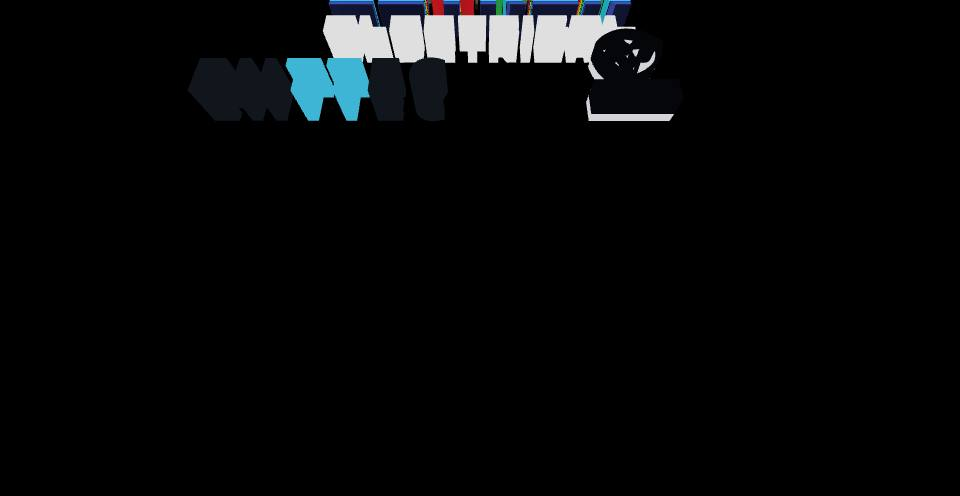
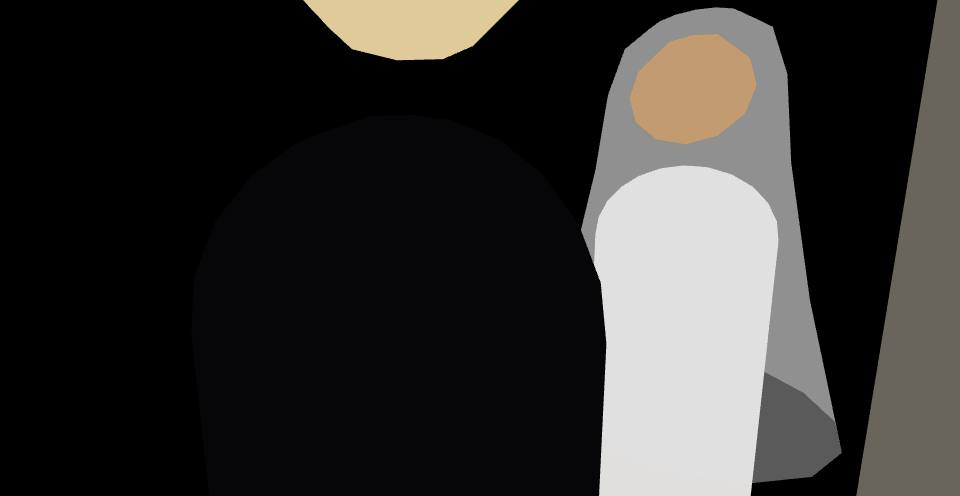
The finale (Lloyd's note, V5): the door swings outward and sits a step to the left, clear of the fin it clipped; nothing outside is ever seen: the court is hidden through the walk, the camera closes onto the groom's back until it fills the frame at 5 s and the picture goes black, and the marks come 

diff --git a/index.html b/index.html
@@ -1789,7 +1789,7 @@ function buildCourt(){
    g.scale(k,k,depthK); g.computeVertexNormals();   // fit in the plane only: the depth stays in metres
    const m=new THREE.Mesh(g,mat); m.frustumCulled=false; grp.add(m); solids.push(m);
   }
-  grp.userData.top=(box.max.y-box.min.y)*k;
+  grp.userData.top=(box.max.y-box.min.y)*k; grp.userData.w=(box.max.x-box.min.x)*k;
   // on the shared turntable, a third of a turn round from Lotron, facing outward
   grp.position.set(Math.sin(angle)*ringR,0,Math.cos(angle)*ringR); grp.rotation.y=angle;
   turntable.add(grp); return grp;
@@ -3450,7 +3450,8 @@ function buildDoor(){ if(doorLeaf){ scene.remove(doorLeaf); doorLeaf=null; }
  const nrm=new THREE.Vector3(-along.z,0,along.x); if(nrm.dot(COURT.n)<0){ nrm.negate(); along.negate(); }
  // where the axis crosses the pane's foot
  const z=bl.clone().sub(P0).dot(nrm)/Math.max(1e-6,COURT.n.dot(nrm)); const Q=P0.clone().addScaledVector(COURT.n,z).setY(bl.y);
- const t=Math.max(-(len/2-DOOR.W/2-0.05),Math.min(len/2-DOOR.W/2-0.05,Q.clone().sub(c).dot(along)));
+ // (Lloyd, V5) a step to the left, seen from inside looking out, clear of the fin it clipped
+ const tc=len/2-DOOR.W/2-0.05, t=Math.max(-tc,Math.min(tc,Q.clone().sub(c).dot(along)-0.4*Math.sign(along.dot(COURT.u))));
  const foot=c.clone().addScaledVector(along,t).setY(bl.y); DOOR.foot=foot.clone();   // the walk passes through here
  // the leaf: a dark frame round a pane of glass, a push bar at hand height; hinged on the far
  // edge, it swings out into the court (rotation.y)
@@ -3470,7 +3471,9 @@ function buildDoor(){ if(doorLeaf){ scene.remove(doorLeaf); doorLeaf=null; }
 // Lotron on top, ENTTEC bottom left, Shadow AV bottom right, BROUGHT TO LIGHT BY above them; the
 // triangle flattens from 3D to 2D, GANDEL HALL 2026 comes up beneath it in shimmering rainbow,
 // holds, and the picture fades to black. The tour ends there.
-const FIN={walk:8, pan:3, drop:6, flat:5, hold:4, fade:2};   // seconds per phase
+const FIN={walk:6.5, pan:1, drop:6, flat:5, hold:4, fade:2};   // seconds per phase
+// (Lloyd, V5) the walk ends on the groom's back filling the frame, then black; the marks come
+// down from the top of the frame onto the black, so nothing outside is ever seen
 // (Lloyd, V2) the last scene is the marks alone on black: as the flattening begins the court,
 // the hall and the sky go, through a short dip to black
 let gandelTop=null, gandelTopMat=null;
@@ -3482,7 +3485,9 @@ function finaleLayout(){ const {H,W,T}=logo.userData; const pt=Math.max(...partn
  // (Lloyd, V2) closer together: the partners nearer the middle and Lotron nearer them; and the
  // big GANDEL HALL above the tag, its height in the framing
  const yearTxt=TX1('finale',''), yBot=yearTxt?0.3+0.45*H+1.0:0.5, yTop=yBot+pt+0.5, dx=W*0.45, tagY=yTop+T+H*0.5, ts=tag&&tag.userData.size||H*0.34, gBot=tagY+ts*0.85+H*0.35, gH=H*0.95;
- return {H,W,T,yTop,yBot,dx,top:gBot+gH+H*0.2,tagY,gBot,gH,wTot:1.8*W}; }
+ // (Lloyd, V5) ENTTEC's left edge on LOTRON's left, Shadow AV's right edge on LOTRON's right
+ const dx0=W/2-(partners[0].userData.w||W*0.5)/2, dx1=W/2-(partners[1].userData.w||W*0.5)/2;
+ return {H,W,T,yTop,yBot,dx,dx0,dx1,top:gBot+gH+H*0.2,tagY,gBot,gH,wTot:1.1*W}; }
 function gandelBuild(L){ if(gandelText||!buildCourt.font)return; if(!TX1('finale','')){ gandelTopBuild(L); return; }
  gandelMat=new THREE.ShaderMaterial({uniforms:{t:{value:0},op:{value:0},x0:{value:0},x1:{value:1}},transparent:true,depthWrite:false,toneMapped:false,
   vertexShader:`varying vec3 vP; void main(){ vP=position; gl_Position=projectionMatrix*modelViewMatrix*vec4(position,1.0); }`,
@@ -3523,7 +3528,7 @@ function finaleLights(dark){ if(finaleDark===dark)return; finaleDark=dark; if(co
 // triangle; then the flattening, the black, the hold and the fade as before
 function finaleStep(s){ if(!finale)finaleStart(); if(!finale)return; const F=finale, L=F.L, y0=COURT.origin.y;
  // the door swings out ahead of the walk, open before anyone reaches it
- if(doorLeaf)doorLeaf.rotation.y=Math.PI*0.58*smooth(Math.max(0,Math.min(1,(s-0.3)/2.2)));
+ if(doorLeaf)doorLeaf.rotation.y=-Math.PI*0.58*smooth(Math.max(0,Math.min(1,(s-0.3)/2.2)));   /* outward (Lloyd, V5) */
  const df=DOOR.foot||courtPoint(COURT.uMid,y0,0), N=COURT.n, U=COURT.u;
  const P=(back,side,y)=>df.clone().addScaledVector(N,back).addScaledVector(U,side).setY(y);   // back: metres into the hall
  // THE COUPLE'S PATH: from 3 m inside, through the door, 2 m out, then away to the side and out
@@ -3535,7 +3540,7 @@ function finaleStep(s){ if(!finale)finaleStart(); if(!finale)return; const F=fin
   const b=P(m.back,m.side,0).addScaledVector(across,-0.28), gm=P(g.back,g.side,0).addScaledVector(across,0.28);
   W.fin.pos=[{x:b.x,z:b.z},{x:gm.x,z:gm.z}]; }
  // seen from the hall, -x is the left: ENTTEC there, Shadow AV on the right
- const targets=new Map([[logo,[0,L.yTop,0]],[partners[0],[-L.dx,L.yBot,0]],[partners[1],[L.dx,L.yBot,0]]]);
+ const targets=new Map([[logo,[0,L.yTop,0]],[partners[0],[-L.dx0,L.yBot,0]],[partners[1],[L.dx1,L.yBot,0]]]);
  const tP=FIN.walk, tD=tP+FIN.pan, tF=tD+FIN.drop;
  const pk=smooth(Math.max(0,Math.min(1,(s-tP)/FIN.pan)));   // the pan up: the marks lift away and take their places above
  const dk=smooth(Math.max(0,Math.min(1,(s-tD)/FIN.drop)));  // the drop: down from the top of the frame into the triangle
@@ -3562,23 +3567,25 @@ function finaleStep(s){ if(!finale)finaleStart(); if(!finale)return; const F=fin
   // taken as it is, the rest scaled; level and square to the camera (Lloyd)
   gandelTop.position.copy(turntable.position); gandelTop.position.y+=L.gBot*sf+liftW; gandelTop.scale.setScalar(sf); gandelTop.lookAt(eye.x,gandelTop.position.y,eye.z); }
  // the dip to black as the flattening begins, and the world gone when it comes back
- const dip=s<tF?Math.max(0,(s-(tF-0.6))/0.6):Math.max(0,1-(s-tF)/0.8);
- finaleLights(s>=tF);
+ const dip=0; if(court)court.visible=s>=tP; finaleLights(s>=tP);
  // the fade to black at the end
  const fd=Math.max(0,Math.min(1,(s-tF-FIN.flat-FIN.hold)/FIN.fade));
- F.f.style.opacity=Math.max(fd,smooth(Math.min(1,dip)),1-Math.min(1,s/1.2));
+ // black: into the groom's back at 5 s, held through the lift, clearing as the marks start down
+ const bo=s<tD?smooth(Math.max(0,Math.min(1,(s-5.0)/0.8))):1-smooth(Math.min(1,(s-tD)/0.8));
+ F.f.style.opacity=Math.max(fd,bo,1-Math.min(1,s/1.2));
  // THE CAMERA. The walk: 1.3 m behind the couple at their shoulders, through the door on their
  // backs; from 2 m outside it stops and turns to the sculpture as they walk out of the picture
  const cz=COURT.logoZ-D, c=courtPoint(COURT.uMid,y0+L.top*0.5*sf,cz), sc=courtPoint(COURT.uMid,y0+3,COURT.logoZ);
  let at,look;
- if(s<tP){ const m=along(Math.min(s,5.2)), m2=along(Math.min(s,5.2)+1.6);
-  at=P(m.back+1.0,m.side,y0+1.5); const ahead=P(m2.back,m2.side,y0+1.35);
-  const tk=smooth(Math.max(0,Math.min(1,(s-5.2)/2.6))); const rest=P(-1.2,0,y0+1.7);
-  at.lerp(rest,tk); look=ahead.lerp(sc,tk); }
- else { const rest=P(-1.2,0,y0+1.7); at=rest.lerp(c,pk);
-  // the pan up: the look climbs to the sky over the sculpture, then settles on the triangle as it lands
+ if(s<tP){ // behind the couple, then closing onto the groom's back until it fills the frame
+  const ss=Math.min(s,5.4), m=along(ss), g=along(Math.max(0,ss-0.45)), ck=smooth(Math.max(0,Math.min(1,(ss-3.6)/1.5)));
+  const across=new THREE.Vector3(-N.z,0,N.x);
+  at=P(m.back+1.0,m.side,y0+1.5).lerp(P(g.back+0.32,g.side,y0+1.25).addScaledVector(across,0.28),ck);
+  const m2=along(ss+1.6); look=P(m2.back,m2.side,y0+1.35).lerp(P(g.back-0.3,g.side,y0+1.15).addScaledVector(across,0.28),ck); }
+ else { at=c;
+  // from above: the look starts high and settles on the triangle as the marks land
   const hi=courtPoint(COURT.uMid,y0+L.top*0.5*sf+D*th*0.9,COURT.logoZ), mid=courtPoint(COURT.uMid,y0+L.top*0.5*sf,COURT.logoZ);
-  look=sc.clone().lerp(hi,pk).lerp(mid,dk); }
+  look=hi.lerp(mid,dk); }
  poseAt(at,look); }
 // THE TEXT of the tour (Lloyd): every line a shot shows, by the shot's storyboard key, editable
 // in the storyboard tool, which writes storyboard/titles.json over these defaults. A '|' in a

diff --git a/tour-storyboard.md b/tour-storyboard.md
@@ -117,7 +117,10 @@ A place for community
 V5 (sent 01/09/2026 23:26:44):
 [shot 2, 4.7 s] the string quartet should be on stage. Improve their models as well to be more accurate
 
-V6 (draft):
+V6 (sent 01/09/2026 23:37:55):
+[shot 2, 4.5 s] the bows for the violins should move across the violins back and forth. not in and out of the violins, clipping through them
+
+V7 (draft):
 
 
 ---
@@ -166,8 +169,11 @@ More variety in all the extravagant clothing the guests are wearing. Also more f
 V6 (sent 01/09/2026 23:29:11):
 [shot 3, 2.2 s] more lavish and detailed banquet. larger types of food. more variety. also instead of the white tablecloth sides, use a light purple
 
-V7 (draft):
+V7 (sent 01/09/2026 23:36:42):
+[shot 3, 4.4 s] I think the white tablecloth is still there because it looks like it's clipping through the purple tablecloth
 
+V8 (draft):
+[shot 3, 11.4 s] the text on desktop should be just a little bit higher
 
 ---
 
@@ -388,10 +394,15 @@ The entrance through the glass isn't cut out through the glass walls like this i
 V5 (sent 01/09/2026 23:26:59):
 The dark blue in gandel hall doesn't contrast well on the black, use different colours
 
-V6 (draft):
+V6 (sent 01/09/2026 23:35:35):
 Door should open outwards. Also move the glass door more to its left. Right now it's clipping into the metal pilon. Also, no logos should be visible outside, they should only appear once the camera pans back off the grooms back.
 
 Actually an even better transition is that the camera flies into the back of the groom, which fills the frame completely, it then fades to black and then in the next clip that's where the screen is black and then the logos come in from the top and show the final logo scene.
+
+Also, the enttec and shadow av logos should be closer together. left side of enttec should align with left side of lotron. Right side of shadow av, right side of lotron. Both of them below lotron electrical
+
+V7 (draft):
+
 
 ---
 
